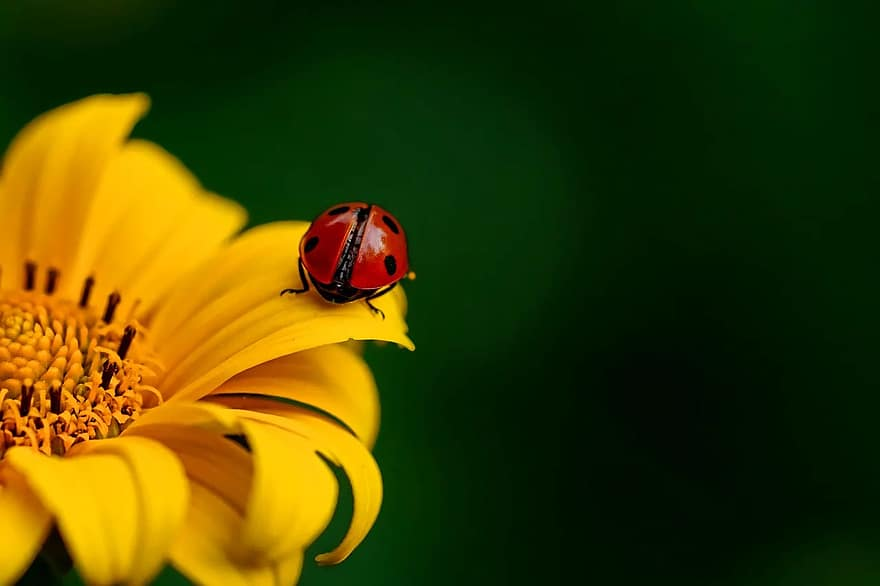
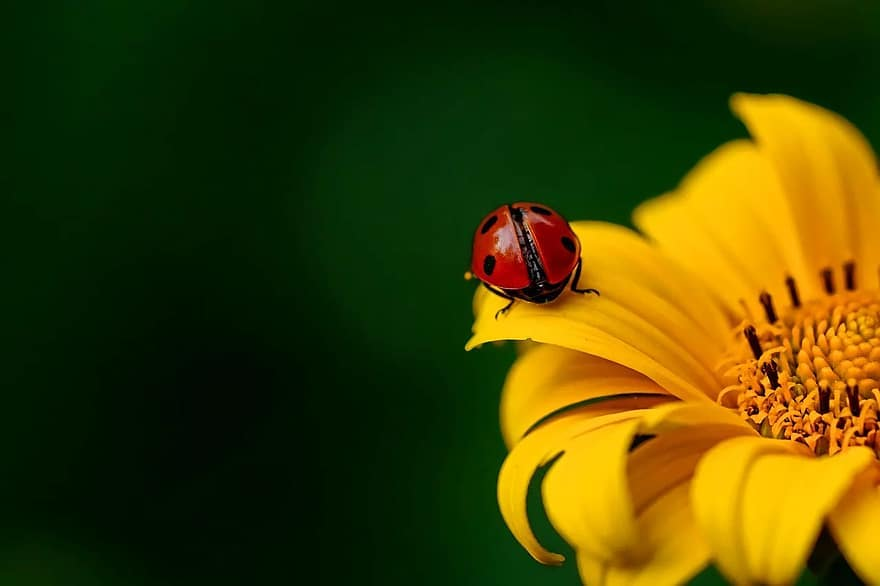
atualizei site

diff --git a/style.css b/style.css
@@ -94,8 +94,8 @@ section.imagem p {
 }
 
 section#img01 {
-    background-image: url(imagens/joaninha-girassol2.jpg);
-    background-position: center center;
+    background-image: url(imagens/joaninha-girassol.jpg);
+    background-position: right center;
 }
 
 section#img02 {
